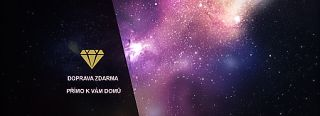
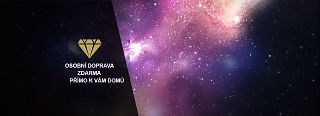
Slider image change

diff --git a/src/index.html b/src/index.html
@@ -38,10 +38,10 @@
 
 		<nav class="main_header__menu" role="navigation">
 			<ul class="main_header__menu__ul">
-				<li class="main_header__menu__ul__item"><a href="#o_nas">O nás</a></li>
+				<li class="main_header__menu__ul__item"><a href="#clanky" data-switcher-target="o_nas">O nás</a></li>
 				<li class="main_header__menu__ul__item"><a href="#ammolite">Ammolite</a></li>
 				<li class="main_header__menu__ul__item"><a href="http://shop.ammolite.cz/cz-kategorie_0-0.html">E-shop</a></li>
-				<li class="main_header__menu__ul__item"><a href="#klub_ammolite">Klub Ammolite</a></li>
+				<li class="main_header__menu__ul__item"><a href="#clanky" data-switcher-target="klub_ammolite">Klub Ammolite</a></li>
 				<li class="main_header__menu__ul__item"><a href="#kontakt">Kontakt</a></li>
 			</ul>
 		</nav>
@@ -63,11 +63,11 @@
 			images/slider_2_450w.jpg?v=2 450w,
 			images/slider_2_320w.jpg?v=2 320w"/>
 		<img class="slider__image" alt="Ammolite" srcset="
-			images/slider_3_1920w.jpg?v=2 1920w,
-			images/slider_3_1024w.jpg?v=2 1024w,
-			images/slider_3_768w.jpg?v=2 768w,
-			images/slider_3_450w.jpg?v=2 450w,
-			images/slider_3_320w.jpg?v=2 320w"/>
+			images/slider_3_1920w.jpg?v=3 1920w,
+			images/slider_3_1024w.jpg?v=3 1024w,
+			images/slider_3_768w.jpg?v=3 768w,
+			images/slider_3_450w.jpg?v=3 450w,
+			images/slider_3_320w.jpg?v=3 320w"/>
 
 	</div>
 </section>
@@ -104,12 +104,14 @@
 
 
 
-<section class="white_block">
+<section class="white_block" id="clanky">
 	<div class="container">
 
 		<div class="switcher">
 			<div class="switcher__selector">
 				<h2>Ammolite / Vyjímečný originál</h2>
+				<button class="switcher__selector__button" data-target="o_nas">O nás</button>
+				<button class="switcher__selector__button" data-target="klub_ammolite">Klub Ammolite</button>
 				<button class="switcher__selector__button" data-target="ammolite_a_staroveky_egypt">Ammolite a starověký egypt</button>
 				<button class="switcher__selector__button" data-target="ammolite_a_indianska_legenda">Ammolite a indiánská legenda</button>
 				<button class="switcher__selector__button" data-target="cinske_uceni">Čínské učení Feng-šuej</button>
@@ -125,6 +127,30 @@
 				<button class="switcher__selector__button" data-target="ammolite_a_svet">Ammolite a Svět</button>
 			</div>
 			<div class="switcher__content">
+				<div class="switcher__content__item" data-id="o_nas">
+					<h1>Kanada a já</h1>
+
+					<img src="images/o_nas_4.jpg" alt="" class="image_float_left" width="237"/>
+
+					<p>Kanada, druhý nejrozlehlejší stát světa se rozkládá na severu Severní Ameriky. Většinu státu však tvoří mrazivé tundry a ledové pustiny, jižní část území je však nádhernou a rozmanitou krajinou, která je člověkem téměř nedotčena, proto láká množství dobrodruhů a milovníků přírody k objevování jejích nespoutaných krás. I já jsem část svého života prožil v těchto místech, pod laskavou ochranou mých rodinných příslušníků, kteří zde žijí trvale a Kanada je jim domovem.  Za to jim všem nesmírně děkuji. Poznal jsem mnoho nádherných míst, nádhernou a zdravou přírodu, při rybolovu na moři i řekách, při dalekých výpravách do divočiny i během návštěv lidských sídel, malých vesnic i obrovských měst. Potkal jsem mnoho přívětivých lidí, kteří si tohoto bohatství váží a chrání si jej, poznával jsem jejich historii, legendy, hrdiny a také symboly. Jeden z nich mě zaujal nadmíru, Ammolite, kámen, jehož jediné naleziště je právě v Kanadě.  Jak jsem postupně poznával tento kámen, jeho dlouhou historii, krásu a mystickou sílu, rozhodl jsem se, že se pokusím přinést část tohoto fenoménu do své rodné země…………</p>
+					<img src="images/o_nas_2.jpg" alt="" class="image_float_left" width="237"/>
+					<p>Příběh ammolitu začíná před více jak 65 miliony let, kdy kroky dinosaurů rozechvívaly zem, pterosaurové byli pány oblohy a oceány byly zaplněny mnoha různými formami života. V této době byla Severní Amerika pokryta mělkým teplým mořem nazývaným Bearpow, jehož břehy sousedily s pohořím Skalistých hor v jihovýchodní části dnešní kanadské provincie Alberta. V tomto moři žilo mnoho rozmanitých živočichů, ať již zcela neškodných, nebo takových monster, jakými byli předchůdci dnešních žraloků. Zde se také objevili Ammonité, vzdálení předchůdci dnešních hlavonožců (chobotnic, sépií, atd.). Ammonité byli hlavonožci s pevnou zakroucenou skořápkou, rozdělenou na komůrky vyplněné plynem. K pohybu využívali proud vody vypuzovaný vlastním tělem, v nebezpečí pak do tohoto proudu vypouštěli barvivo, které jim mělo usnadnit únik. Těchto vlastností pak plně využívali při úniku před svými nepřáteli mosasaury, nebo jinými predátory, pro něž byli pochoutkou.</p>
+					<img src="images/o_nas_3.jpg" alt="" class="image_float_left" width="237"/>
+					<p>Prázdné ulity ammonitů klesly do bahna bohatého na minerály, ve kterém zkameněly. Působením různých minerálů ulity získaly duhově hrající barvy. Tak vznikl organický drahokam nazývaný Ammolit. Spolu s jantarem a perlami je tak dalším kamenem, který vzniká na živočišné bázi.</p>
+					<!--<img src="images/o_nas_1.jpg" alt="" class="image_float_left" width="237"/>-->
+
+
+				</div>
+
+				<div class="switcher__content__item" data-id="klub_ammolite">
+					<h1>Ammolite Friend Club AFC</h1>
+
+					<p>Členem klubu se může stát kdokoli, kdo projeví zájem a přihlásí se prostřednictvím formuláře na našich webových stránkách. Každý měsíc probíhá speciální nabídka, většinou slevová akce na vybrané zboží, která bude interpretována a určena výhradně pro členy AFC. Budete pravidelně informováni o novinkách jak v oblasti dovozu kamenů a výroby šperků, tak v oblasti Ammolite a svět, informace z těžby a naleziště, zajímavosti a podobně. Chystáme seriál článků a vyprávění o Ammolite z pohledu vědeckého, mystického, léčivého vlivu, magických schopností, vše v návaznosti na znamení a dokonce i čakry.</p>
+					<p>Vzhledem k tomu, že vím, jak nepříjemné můžou být někdy časté ataky od různých dodavatelů, emailových či sms nabídek a podobně, můžete si způsob a četnost informací zvolit. Například jednou za 14 dnů emailem a podobně.</p>
+
+					<p><strong><a href="http://shop.ammolite.cz/cz-formulare-1.html">Přihlašovací formulář</a></strong></p>
+				</div>
+
 				<div class="switcher__content__item" data-id="ammolite_a_staroveky_egypt">
 					<h1>Ammolite a starověký egypt</h1>
 
@@ -345,6 +371,22 @@
 </section>
 
 
+<section class="eshop_teaser">
+	<img class="eshop_teaser__image" alt="Ammolite e-shop" srcset="
+		images/eshop_1920w.jpg 1920w,
+		images/eshop_1024w.jpg 1024w,
+		images/eshop_768w.jpg 768w,
+		images/eshop_450w.jpg 450w" />
+
+	<div class="eshop_teaser__description">
+		<h1 class="eshop_teaser__description__heading">E-shop ammolite</h1>
+		<!--<h2 class="eshop_teaser__description__subheading">Naše nabídka šperků</h2>-->
+		<a class="eshop_teaser__description__button" href="http://shop.ammolite.cz">Vstoupit</a>
+	</div>
+
+</section>
+
+
 
 
 <section class="white_block">
@@ -388,22 +430,6 @@
 </section>
 
 
-<section class="eshop_teaser">
-	<img class="eshop_teaser__image" alt="Ammolite e-shop" srcset="
-		images/eshop_1920w.jpg 1920w,
-		images/eshop_1024w.jpg 1024w,
-		images/eshop_768w.jpg 768w,
-		images/eshop_450w.jpg 450w" />
-
-	<div class="eshop_teaser__description">
-		<h1 class="eshop_teaser__description__heading">E-shop ammolite</h1>
-		<!--<h2 class="eshop_teaser__description__subheading">Naše nabídka šperků</h2>-->
-		<a class="eshop_teaser__description__button" href="http://shop.ammolite.cz">Vstoupit</a>
-	</div>
-
-</section>
-
-
 
 <section class="dark_block">
 	<div class="container">
@@ -440,47 +466,6 @@
 	</div>
 </section>
 
-
-<section class="white_block" id="klub_ammolite">
-	<div class="container">
-
-		<h1 class="vyroba_proces__heading is-dark">Ammolite Friend Club AFC</h1>
-
-		<div class="vyroba_proces">
-			<p>Členem klubu se může stát kdokoli, kdo projeví zájem a přihlásí se prostřednictvím formuláře na našich webových stránkách. Každý měsíc probíhá speciální nabídka, většinou slevová akce na vybrané zboží, která bude interpretována a určena výhradně pro členy AFC. Budete pravidelně informováni o novinkách jak v oblasti dovozu kamenů a výroby šperků, tak v oblasti Ammolite a svět, informace z těžby a naleziště, zajímavosti a podobně. Chystáme seriál článků a vyprávění o Ammolite z pohledu vědeckého, mystického, léčivého vlivu, magických schopností, vše v návaznosti na znamení a dokonce i čakry.</p>
-			<p>Vzhledem k tomu, že vím, jak nepříjemné můžou být někdy časté ataky od různých dodavatelů, emailových či sms nabídek a podobně, můžete si způsob a četnost informací zvolit. Například jednou za 14 dnů emailem a podobně.</p>
-
-			<p><strong><a href="http://shop.ammolite.cz/cz-formulare-1.html">Přihlašovací formulář</a></strong></p>
-		</div>
-
-	</div>
-</section>
-
-
-
-
-<section class="dark_block" id="o_nas">
-	<div class="container">
-
-		<h1 class="vyroba_proces__heading">Kanada a já</h1>
-
-		<div class="vyroba_proces">
-
-			<p>Kanada, druhý nejrozlehlejší stát světa se rozkládá na severu Severní Ameriky. Většinu státu však tvoří mrazivé tundry a ledové pustiny, jižní část území je však nádhernou a rozmanitou krajinou, která je člověkem téměř nedotčena, proto láká množství dobrodruhů a milovníků přírody k objevování jejích nespoutaných krás. I já jsem část svého života prožil v těchto místech, pod laskavou ochranou mých rodinných příslušníků, kteří zde žijí trvale a Kanada je jim domovem.  Za to jim všem nesmírně děkuji. Poznal jsem mnoho nádherných míst, nádhernou a zdravou přírodu, při rybolovu na moři i řekách, při dalekých výpravách do divočiny i během návštěv lidských sídel, malých vesnic i obrovských měst. Potkal jsem mnoho přívětivých lidí, kteří si tohoto bohatství váží a chrání si jej, poznával jsem jejich historii, legendy, hrdiny a také symboly. Jeden z nich mě zaujal nadmíru, Ammolite, kámen, jehož jediné naleziště je právě v Kanadě.  Jak jsem postupně poznával tento kámen, jeho dlouhou historii, krásu a mystickou sílu, rozhodl jsem se, že se pokusím přinést část tohoto fenoménu do své rodné země…………</p>
-			<img src="images/o_nas_4.jpg" alt="" class="vyroba_proces__image is-left"/>
-			<img src="images/o_nas_2.jpg" alt="" class="vyroba_proces__image is-right"/>
-			<div style="clear:both;"></div>
-			<p>Příběh ammolitu začíná před více jak 65 miliony let, kdy kroky dinosaurů rozechvívaly zem, pterosaurové byli pány oblohy a oceány byly zaplněny mnoha různými formami života. V této době byla Severní Amerika pokryta mělkým teplým mořem nazývaným Bearpow, jehož břehy sousedily s pohořím Skalistých hor v jihovýchodní části dnešní kanadské provincie Alberta. V tomto moři žilo mnoho rozmanitých živočichů, ať již zcela neškodných, nebo takových monster, jakými byli předchůdci dnešních žraloků. Zde se také objevili Ammonité, vzdálení předchůdci dnešních hlavonožců (chobotnic, sépií, atd.). Ammonité byli hlavonožci s pevnou zakroucenou skořápkou, rozdělenou na komůrky vyplněné plynem. K pohybu využívali proud vody vypuzovaný vlastním tělem, v nebezpečí pak do tohoto proudu vypouštěli barvivo, které jim mělo usnadnit únik. Těchto vlastností pak plně využívali při úniku před svými nepřáteli mosasaury, nebo jinými predátory, pro něž byli pochoutkou.</p>
-			<img src="images/o_nas_3.jpg" alt="" class="vyroba_proces__image is-left"/>
-			<img src="images/o_nas_1.jpg" alt="" class="vyroba_proces__image is-right"/>
-			<div style="clear:both;"></div>
-			<p>Prázdné ulity ammonitů klesly do bahna bohatého na minerály, ve kterém zkameněly. Působením různých minerálů ulity získaly duhově hrající barvy. Tak vznikl organický drahokam nazývaný Ammolit. Spolu s jantarem a perlami je tak dalším kamenem, který vzniká na živočišné bázi.</p>
-
-
-		</div>
-
-	</div>
-</section>
 
 
 <section class="white_block" id="kontakt">

diff --git a/src/js/switcher.js b/src/js/switcher.js
@@ -16,6 +16,10 @@
 			this.buttons.on( 'click', function(){
 				self.change( $( this ) );
 			} );
+
+			$( 'a[data-switcher-target]' ).on( 'click', function(){
+				self.changeToTarget( $( this ).data( 'switcher-target' ) );
+			} );
 		},
 
 		change: function( button ) {
@@ -24,6 +28,12 @@
 			this.items.velocity( 'fadeOut', { duration: 500 } );
 			final_item.velocity( 'fadeIn', { duration: 500 } );
 
+		},
+
+		changeToTarget: function ( target ) {
+			var final_item = this.items.filter( '[data-id=' + target + ']' );
+			this.items.velocity( 'fadeOut', { duration: 500 } );
+			final_item.velocity( 'fadeIn', { duration: 500 } );
 		}
 
 	};

diff --git a/src/js/owl_carousel.js b/src/js/owl_carousel.js
@@ -3,7 +3,7 @@
 
 	$( '.slider' ).owlCarousel( {
 		singleItem: true,
-		autoPlay: 6000,
+		autoPlay: 2000,
 		stopOnHover: true,
 		navigation: true,
 		pagination: false
